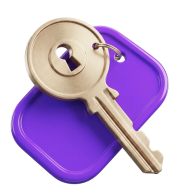
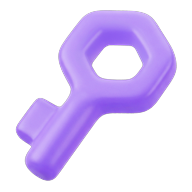
Магазин: новый ключ из макета; оформление в наградах — рубашка, рамка, аватар или статус
Claude-Session: https://claude.ai/code/session_01TenupZgwvyMX5rahjRnH4Z

diff --git a/js/shop.js b/js/shop.js
@@ -218,6 +218,13 @@ function flyReward({ wrap, rect }, target, delay = 0) {
   });
 }
 
+// пулы для награды «Оформление»: аватары — квадратные из профиля
+// (assets/avatars-sq), статусы — список из настроек профиля
+const STYLE_KINDS = ['back', 'frame', 'avatar', 'status'];
+const STYLE_AVATARS = Array.from({ length: 16 }, (_, i) => `assets/avatars-sq/sq-${String(i + 1).padStart(2, '0')}.png`);
+const STYLE_STATUSES = ['Т-Ранжира', 'Гааааaз', 'Данеумерявконце', 'Даумеронвконце', 'Т-Ылох', 'Делай, как надо', 'Как не надо, не делай', 'Тут — это вам не там', 'Жи-ши пиши от души', 'Марианскую впадину знаешь?'];
+const STYLE_SUB = { back: 'Рубашка карты', frame: 'Рамка аватара', avatar: 'Аватар', status: 'Статус' };
+
 function makeReward(entry, taken = new Set()) {
   if (entry.kind === 'card') {
     // прототип: эпическая карта — всегда новая (пока есть неоткрытые),
@@ -240,11 +247,19 @@ function makeReward(entry, taken = new Set()) {
     return { kind: 'tokens', amount: Math.round(entry.min + Math.random() * (entry.max - entry.min)) };
   }
   if (entry.kind === 'frame') {
-    // косметика — рамка аватара (js/catalog/frames.js) или рубашка колоды (js/cosmetics24.js)
-    const isBack = Math.random() < 0.5;
-    // любая из каталога (сейчас там только обычные — js/catalog/)
-    const item = pick(isBack ? COSMETICS24.BACKS : COSMETICS24.FRAMES);
-    return { kind: 'frame', back: isBack, id: item.id, name: `${isBack ? 'Рубашка' : 'Рамка'} «${item.name}»` };
+    // оформление — одно из четырёх с равным шансом: рубашка колоды, рамка
+    // аватара (каталог js/catalog/, сейчас только обычные), аватар или статус
+    const style = pick(STYLE_KINDS);
+    if (style === 'back') {
+      const item = pick(COSMETICS24.BACKS);
+      return { kind: 'frame', style, id: item.id, name: `Рубашка «${item.name}»` };
+    }
+    if (style === 'frame') {
+      const item = pick(COSMETICS24.FRAMES);
+      return { kind: 'frame', style, id: item.id, avatar: pick(STYLE_AVATARS), name: `Рамка «${item.name}»` };
+    }
+    if (style === 'avatar') return { kind: 'frame', style, id: pick(STYLE_AVATARS), name: 'Аватар' };
+    return { kind: 'frame', style, id: pick(STYLE_STATUSES), name: 'Статус' };
   }
   return { kind: 'bonus', name: pick(BONUS_NAMES) };
 }
@@ -402,7 +417,7 @@ function prizeText(e) {
   if (e.kind === 'card') return ['Карта', CARD_PRIZE_SUB[e.rarity], 'is-text'];
   if (e.kind === 'coins') return ['Монеты', `${e.min} — ${e.max} шт.`];
   if (e.kind === 'tokens') return ['Ключи', `${e.min} — ${e.max} шт.`];
-  if (e.kind === 'frame') return ['Оформление', 'Рамки, рубашки, профиль', 'is-text'];
+  if (e.kind === 'frame') return ['Оформление', 'Рубашка, рамка, аватар или статус', 'is-text'];
   return ['Бонус', `Шанс выпадения ${e.chance}%`];
 }
 function rewardPreview(e) {
@@ -423,7 +438,7 @@ function prizeTip(key) {
     'card-purple': 'Редкая или эпическая карта',
     coins: 'Монеты, за которые открываются обычный и редкий сундуки',
     tokens: 'Ключи, которые открывают эпический сундук',
-    frame: 'Рамка аватара, рубашка колоды или оформление профиля',
+    frame: 'Одно из оформлений: рубашка колоды, рамка аватара, аватар или статус',
     bonus: 'Скидка или кешбэк от партнёров — появится в «Бонусах»',
   }[key];
 }
@@ -650,9 +665,14 @@ function rewardCellHTML(r) {
     sub = `${r.amount} шт.`;
     art = '<img class="lb-cell-img" src="assets/shop-prize2-keys.png" alt="">';
   } else {
+    // оформление показываем как есть: рубашку, рамку (с аватаром внутри),
+    // аватар; статус — иконкой-лентой из макета (Figma 18003:36096)
     title = 'Оформление';
-    sub = r.back ? 'Рубашка карты' : 'Рамка аватара';
-    art = '<img class="lb-cell-img" src="assets/shop-prize2-styles.png" alt="">';
+    sub = STYLE_SUB[r.style];
+    if (r.style === 'back') art = `<span class="lb-style lb-style-back">${COSMETICS24.backHTML(r.id)}</span>`;
+    else if (r.style === 'frame') art = `<span class="lb-style lb-style-frame" data-frame-id="${r.id}"><img src="${r.avatar}" alt=""></span>`;
+    else if (r.style === 'avatar') art = `<img class="lb-style lb-style-avatar" src="${r.id}" alt="">`;
+    else art = '<img class="lb-cell-img lb-style-status" src="assets/shop-prize2-status.png" alt="">';
   }
   return `<div class="lb-cell lb-cell-${r.kind}${r.dup ? ' is-dup' : ''}"><div class="lb-cell-art">${art}</div><p class="lb-cell-title">${title}</p><span class="lb-cell-sub">${sub}</span></div>`;
 }
@@ -927,6 +947,7 @@ async function playLootbox(box, list) {
   lbOverlayEl.style.opacity = '';
   // сетка наград рисуется сразу (невидимой) — пути вылета считаются от неё
   lbRewardsEl.innerHTML = rewards.map(rewardCellHTML).join('');
+  lbRewardsEl.querySelectorAll('[data-frame-id]').forEach((el) => COSMETICS24.applyFrame(el, el.dataset.frameId));
   const cells = Array.from(lbRewardsEl.children);
   cells.forEach((c) => { c.style.opacity = '0'; });
   lbOverlayEl.classList.add('is-open');

diff --git a/css/shop.css b/css/shop.css
@@ -1026,3 +1026,45 @@
 
 /* сундуки в карточках и в шторке левитируют — anime.js (levitate() в js/shop.js) */
 
+
+/* награда «Оформление» — сам предмет 72×72 над подписью (рубашка, рамка с
+   аватаром, аватар); статус — картинка из макета на всю ячейку (Figma 18003:36096) */
+.lb-style {
+  display: block;
+  flex: none;
+  width: 72px;
+  height: 72px;
+  margin-top: 18px;
+  border-radius: 16px;
+}
+
+.lb-style-back {
+  position: relative;
+  border-radius: 0;
+}
+
+.lb-style-back > .cb24 {
+  position: absolute;
+  inset: 0;
+}
+
+.lb-style-frame {
+  padding: 6px;
+  background: var(--pf-frame);
+}
+
+.lb-style-frame > img {
+  display: block;
+  width: 100%;
+  height: 100%;
+  border-radius: 10px;
+  object-fit: cover;
+}
+
+.lb-style-avatar {
+  object-fit: cover;
+}
+
+.lb-cell-img.lb-style-status {
+  transform: none;
+}

diff --git a/docs/readme.md b/docs/readme.md
@@ -1092,6 +1092,13 @@ anime.animate(target, {
 - Фон — общий фон приложения (картинка, притушенная на 70%), вместо прежнего бирюзового.
 - **Профиль соперника:** тап по его аватару — шторка с тем же оформлением, что в профиле (аватар в рамке, две рубашки за ним, имя, статус), без «Поделиться/Настроить» и уведомлений. Вместо них — лайк как в инстаграме: сердце и счётчик (поставил — красное, +1, сохраняется в `v2.oppProfileLiked`). Ниже — «Статистика».
 
+#### Магазин: новый ключ и награда «Оформление» (Figma 16963:60023, 18003:36096)
+
+- **Иконка ключа** заменена на фиолетовый ключ из макета (компонент «Ключ», 16963:60023) — `assets/shop-key-192.png`, тот же файл, поэтому меняется везде: балансы, кнопки цены, «Не хватает N ключей», полёт ключей. Картинка награды «Ключи» в карточке сундука (`shop-prize2-keys.png`) осталась прежней — она из раздела «Награды» макета.
+- **Награда «Оформление»** — одно из четырёх с равным шансом (`STYLE_KINDS` и `makeReward()` в `js/shop.js`): рубашка колоды или рамка аватара (случайная из каталога), аватар (случайный из `assets/avatars-sq`) или статус (случайный из списка статусов профиля). На экране наград показывается сам предмет 72×72 (`.lb-style` в `css/shop.css`): рубашка, рамка с аватаром внутри, аватар; статус — иконкой-лентой из макета на всю ячейку (`assets/shop-prize2-status.png`). Подпись: «Рубашка карты», «Рамка аватара», «Аватар», «Статус». Так же в сундуке заданий (еженедельном).
+- В карточке сундука подпись «Оформление» — «Рубашка, рамка, аватар или статус», тултип — «Одно из оформлений: рубашка колоды, рамка аватара, аватар или статус».
+- По смыслу (в макете нет): размер и положение рубашки, рамки и аватара в ячейке; какой именно статус выпал, на экране не пишется. Выпавшее оформление пока никуда не записывается — в профиле и так доступен весь каталог.
+
 #### Версии прототипа (`js/version.js`)
 
 В профиле карточка «Версия» с переключателем 2.1 / 2.2: так можно на лету
